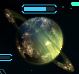
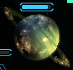
现在可以点击任意星球了

diff --git a/window.py b/window.py
@@ -36,22 +36,25 @@ def Init(name):
     KeyDown('F11')  # F11设置为时间调制器的快捷键
     KeyDown('esc')  # esc关闭下方信息窗口
     x1, y1, x2, y2 = win32gui.GetWindowRect(handle)
-    pos = (int((x1+x2)/2), int((y1+y2)/2))
+    pos = (int((x1+x2)/2), int((y1+y2+35)/2))
     win32api.SetCursorPos(pos)
     Roll(-1, 13, 0.1)  # 滚轮调整视野缩放
 
     return handle
 
 
-# 截取指定窗口画面,并返回窗口中心点坐标
-def ScreenShot(handle):
+# 截取指定窗口画面,并返回截取的窗口对角坐标(左上/右下)
+def ScreenShot(handle=None):
+    if handle is None:
+        handle = win32gui.FindWindow(None, 'Hades\' Star')
+
     x1, y1, x2, y2 = win32gui.GetWindowRect(handle)
     img = ImageGrab.grab((x1, y1, x2, y2))  # 截图
     img = np.array(img)
     img = cv2.cvtColor(img, cv2.COLOR_RGB2BGR)
 
     screen = img[50:935, 100:1500]  # 裁去边缘部分
-    return screen
+    return screen, (x1 + 100, y1 + 50, x2 - 100, y2 - 15)
 
 
 # 鼠标左键点击
@@ -83,21 +86,41 @@ def Roll(direction, times, sleeptime=0.05):
 
 
 # 当前视野坐标定位
-def Location(handle=None):
+def sunPosition(handle=None):
     if handle is None:
         handle = win32gui.FindWindow(None, 'Hades\' Star')
 
-    screen = ScreenShot(handle)  # 窗口截图
+    screen, _ = ScreenShot(handle)  # 窗口截图
 
     # 找到黄星
-    s = np.ones((18, 18), np.uint8)
+    s = np.ones((20, 20), np.uint8)
     opened = cv2.morphologyEx(screen, cv2.MORPH_OPEN, s)  # 开运算，消除小亮点
     grey = cv2.cvtColor(opened, cv2.COLOR_RGB2GRAY)  # 转换为灰度图
-    _, grey = cv2.threshold(grey, 200, 255, cv2.THRESH_BINARY)  # 转化为二值图像
+    _, grey = cv2.threshold(grey, 210, 255, cv2.THRESH_BINARY)  # 转化为二值图像
+    # imshow(grey)
     # 计算黄星中心相对于图片中心坐标
     contours, _ = cv2.findContours(grey, cv2.RETR_TREE, cv2.CHAIN_APPROX_SIMPLE)
+    if len(contours) == 0:
+        print("视野中没有找到黄星，正在重试...")
+        Init('Hades\' Star')
+        screen, _ = ScreenShot(handle)  # 窗口截图
+
+        # 找到黄星
+        s = np.ones((20, 20), np.uint8)
+        opened = cv2.morphologyEx(screen, cv2.MORPH_OPEN, s)  # 开运算，消除小亮点
+        grey = cv2.cvtColor(opened, cv2.COLOR_RGB2GRAY)  # 转换为灰度图
+        _, grey = cv2.threshold(grey, 210, 255, cv2.THRESH_BINARY)  # 转化为二值图像
+        # imshow(grey)
+        # 计算黄星中心相对于图片中心坐标
+        contours, _ = cv2.findContours(grey, cv2.RETR_TREE, cv2.CHAIN_APPROX_SIMPLE)
+        if len(contours) == 0:
+            print("视野中没有找到黄星")
+            return None
+        else:
+            print("重试成功")
+
     if len(contours) != 1:
-        print("可能没有准确找到中心"), print("有%d个轮廓" % len(contours))
+        print("可能没有准确找到中心,", end=''), print("有%d个疑似点" % len(contours))
     (x, y), _ = cv2.minEnclosingCircle(contours[0])
     location = (int(x - screen.shape[1] / 2), int(y - screen.shape[0] / 2))
     return location
@@ -105,26 +128,27 @@ def Location(handle=None):
 
 # 移动视野,使黄星坐标变为给定坐标
 def Relocate(pos, tolerance=50):
-    current = Location()
+    current = sunPosition()
+
     x = pos[0] - current[0]
     y = pos[1] - current[1]
 
     while x > tolerance:
         KeyDown('left_arrow', 0.001 * abs(x))
-        current = Location()
+        current = sunPosition()
         x = pos[0] - current[0]
     while x < -tolerance:
         KeyDown('right_arrow', 0.001 * abs(x))
-        current = Location()
+        current = sunPosition()
         x = pos[0] - current[0]
 
     while y > tolerance:
         KeyDown('up_arrow', 0.001 * abs(y))
-        current = Location()
+        current = sunPosition()
         y = pos[1] - current[1]
     while y < -tolerance:
         KeyDown('down_arrow', 0.001 * abs(y))
-        current = Location()
+        current = sunPosition()
         y = pos[1] - current[1]
 
 

diff --git a/Find.py b/Find.py
@@ -3,26 +3,87 @@
 
 import cv2
 import numpy as np
+import window
+import data
 
 
-def Find(template, background, range):
-    filename = 'Pictures/' + str(template) + '.PNG'
+# 通过星球编号number，从传入图像background中查找星球坐标
+def findPlanet(number, background, tolerance):
+    filename = 'Pictures/' + str(number) + '.PNG'
     target = cv2.imread(filename)
     target = cv2.cvtColor(target, cv2.COLOR_RGB2GRAY)
     background = cv2.cvtColor(background, cv2.COLOR_RGB2GRAY)
     result = cv2.matchTemplate(background, target, cv2.TM_SQDIFF_NORMED)
 
-    if range > 0:
-        loc = np.where(result > range)
-    elif range < 0:
-        loc = np.where(result < -range)
+    if tolerance > 0:
+        locs = np.where(result > tolerance)
+    elif tolerance < 0:
+        locs = np.where(result < -tolerance)
 
-    if len(loc[0]) == 0:
-        print("模板" + str(template) + "匹配失败")
+    if len(locs) == 0:
+        print("星球%d模板匹配失败", number)
+        return None
 
-    for pt in zip(*loc[::-1]):
-        bottom_right = (pt[0] + target.shape[1], pt[1] + target.shape[0])
-        cv2.rectangle(background, pt, bottom_right, (255, 255, 255), 2)
+    x = y = 0
+    for pt in zip(*locs[::-1]):
+        x += pt[0] + 0.5 * target.shape[1]
+        y += pt[1] + 0.5 * target.shape[0]
+
+    loc = (int(x / len(list(zip(*locs[::-1])))), int(y / len(list(zip(*locs[::-1])))))
 
     return loc
+
+
+# 让指定的星区进入视野范围,tolerance容忍星区不完全在视野内
+def findSector(planetNum, tolerance):
+    sectorName = data.PLANET_SECTOR[planetNum]
+    sector_x, sector_y = data.sectorPostion(sectorName)
+
+    sunPos = window.sunPosition()
+    # 当前屏幕视野范围（星系坐标）
+    up_left = (-700 - sunPos[0], -442 - sunPos[1])
+    down_right = (700 - sunPos[0], 442 - sunPos[1])
+
+    if sector_x + tolerance < up_left[0]:  # 星区位于视野左侧
+        newSunPos_x = sunPos[0] + up_left[0] - sector_x - tolerance
+    elif sector_x + 2 * data.a - tolerance > down_right[0]:  # 星区位于视野右侧
+        newSunPos_x = sunPos[0] + down_right[0] - sector_x - 2 * data.a + tolerance
+    else:
+        newSunPos_x = sunPos[0]
+
+    if sector_y + tolerance < up_left[1]:  # 星区位于视野上侧
+        newSunPos_y = sunPos[1] + up_left[1] - sector_y - tolerance
+    elif sector_y + 2 * data.r - tolerance > down_right[1]:  # 星区位于视野下侧
+        newSunPos_y = sunPos[1] + down_right[1] - sector_y - 2 * data.r + tolerance
+    else:
+        newSunPos_y = sunPos[1]
+
+    # 重新定位视野，使得指定星区进入视野中
+    window.Relocate((newSunPos_x, newSunPos_y), 10)
+
+    # 截取指定星区图像
+    screen, (screen_x, screen_y, _, _) = window.ScreenShot()
+    sunPos = window.sunPosition()
+    # 当前屏幕视野范围（星系坐标）
+    up_left = (-700 - sunPos[0], -442 - sunPos[1])
+
+    x1 = max(0, sector_x - up_left[0])
+    x1 = int(x1)
+    x2 = min(x1 + 2 * data.a + min(sector_x - up_left[0], 0), 1400)
+    x2 = int(x2)
+
+    y1 = max(0, sector_y - up_left[1])
+    y1 = int(y1)
+    y2 = min(y1 + 2 * data.r + min(sector_y - up_left[1], 0), 885)
+    y2 = int(y2)
+
+    img = screen[y1:y2, x1:x2]  # 选取指定星区
+
+    # 获得星球在星区截图中的坐标
+    loc = findPlanet(planetNum, img, -0.3)
+    # 在屏幕中的坐标
+    pos = (screen_x + loc[0] + x1, screen_y + loc[1] + y1)
+
+    return pos
+
 

diff --git a/main.py b/main.py
@@ -14,21 +14,31 @@ import Find
 if __name__ == '__main__':
     # 初始化游戏窗口
     handle = window.Init('Hades\' Star')
-    window.Relocate((0, 0))
 
-    time.sleep(1)
-    img = window.ScreenShot(handle)
-    img2 = img.copy()
+    for num in range(13, 17):
+        pos = Find.findSector(num, 5)
+        window.LClick(pos)
+        # time.sleep(0.05)
 
-    for num in range(1, 16):
-        loc = Find.Find(num, img, -0.30)
-        filename = 'Pictures/' + str(num) + '.PNG'
-        target = cv2.imread(filename)
-        for pt in zip(*loc[::-1]):
-            bottom_right = (pt[0] + target.shape[1], pt[1] + target.shape[0])
-            cv2.rectangle(img2, pt, bottom_right, (255, 255, 255), 2)
+    # while 1:
+    #     locate = window.sunPosition(handle)
+    #     print(locate)
+    #     window.Relocate((0, 0, 10))
 
-    window.imshow(img2)
+    # time.sleep(1)
+    # img = window.ScreenShot(handle)
+    # img2 = img.copy()
+    #
+    # for num in range(1, 17):
+    #     loc = Find.Find(num, img, -0.30)
+    #     filename = 'Pictures/' + str(num) + '.PNG'
+    #     target = cv2.imread(filename)
+    #     for pt in zip(*loc[::-1]):
+    #         bottom_right = (pt[0] + target.shape[1], pt[1] + target.shape[0])
+    #         cv2.rectangle(img2, pt, bottom_right, (255, 255, 255), 2)
+    #
+    # window.imshow(img2)
+
 
 
 # ————初始化————

diff --git a/data.py b/data.py
@@ -1,6 +1,8 @@
 
 # 存放数据
 
+import math
+
 # 键盘输入码
 VK_CODE = {
     'backspace': 0x08,
@@ -150,4 +152,48 @@ VK_CODE = {
     "'": 0xDE
 }
 
+a = 140  # 星区边长
+r = math.sqrt(3) * a / 2  # 星区内切圆半径
+
+# 星区编号转换
+SECTOR_X = {
+    'A': -3,
+    'B': -2,
+    'C': -1,
+    'D': 0,
+    'E': 1,
+    'F': 2,
+    'G': 3
+}
+
+# 由星球编号查找星球星区的字典
+PLANET_SECTOR = {
+    1: 'D5',
+    2: 'D5',
+    3: 'E4',
+    4: 'C5',
+    5: 'E3',
+    6: 'C6',
+    7: 'A4',
+    8: 'C3',
+    9: 'B2',
+    10: 'E2',
+    11: 'C2',
+    12: 'B1',
+    13: 'G2',
+    14: 'G4',
+    15: 'F5',
+    16: 'E1',
+}
+
+
+# 获取星区（外接矩形）左上角的相对黄星坐标
+def sectorPostion(name):
+    x = SECTOR_X[name[0]]
+    y = int(name[1])
+
+    pos_x = int(1.5 * a * x - a)
+    pos_y = int(2 * r * (y - 4 + 0.5 * abs(x)) - r)
+
+    return pos_x, pos_y
 
